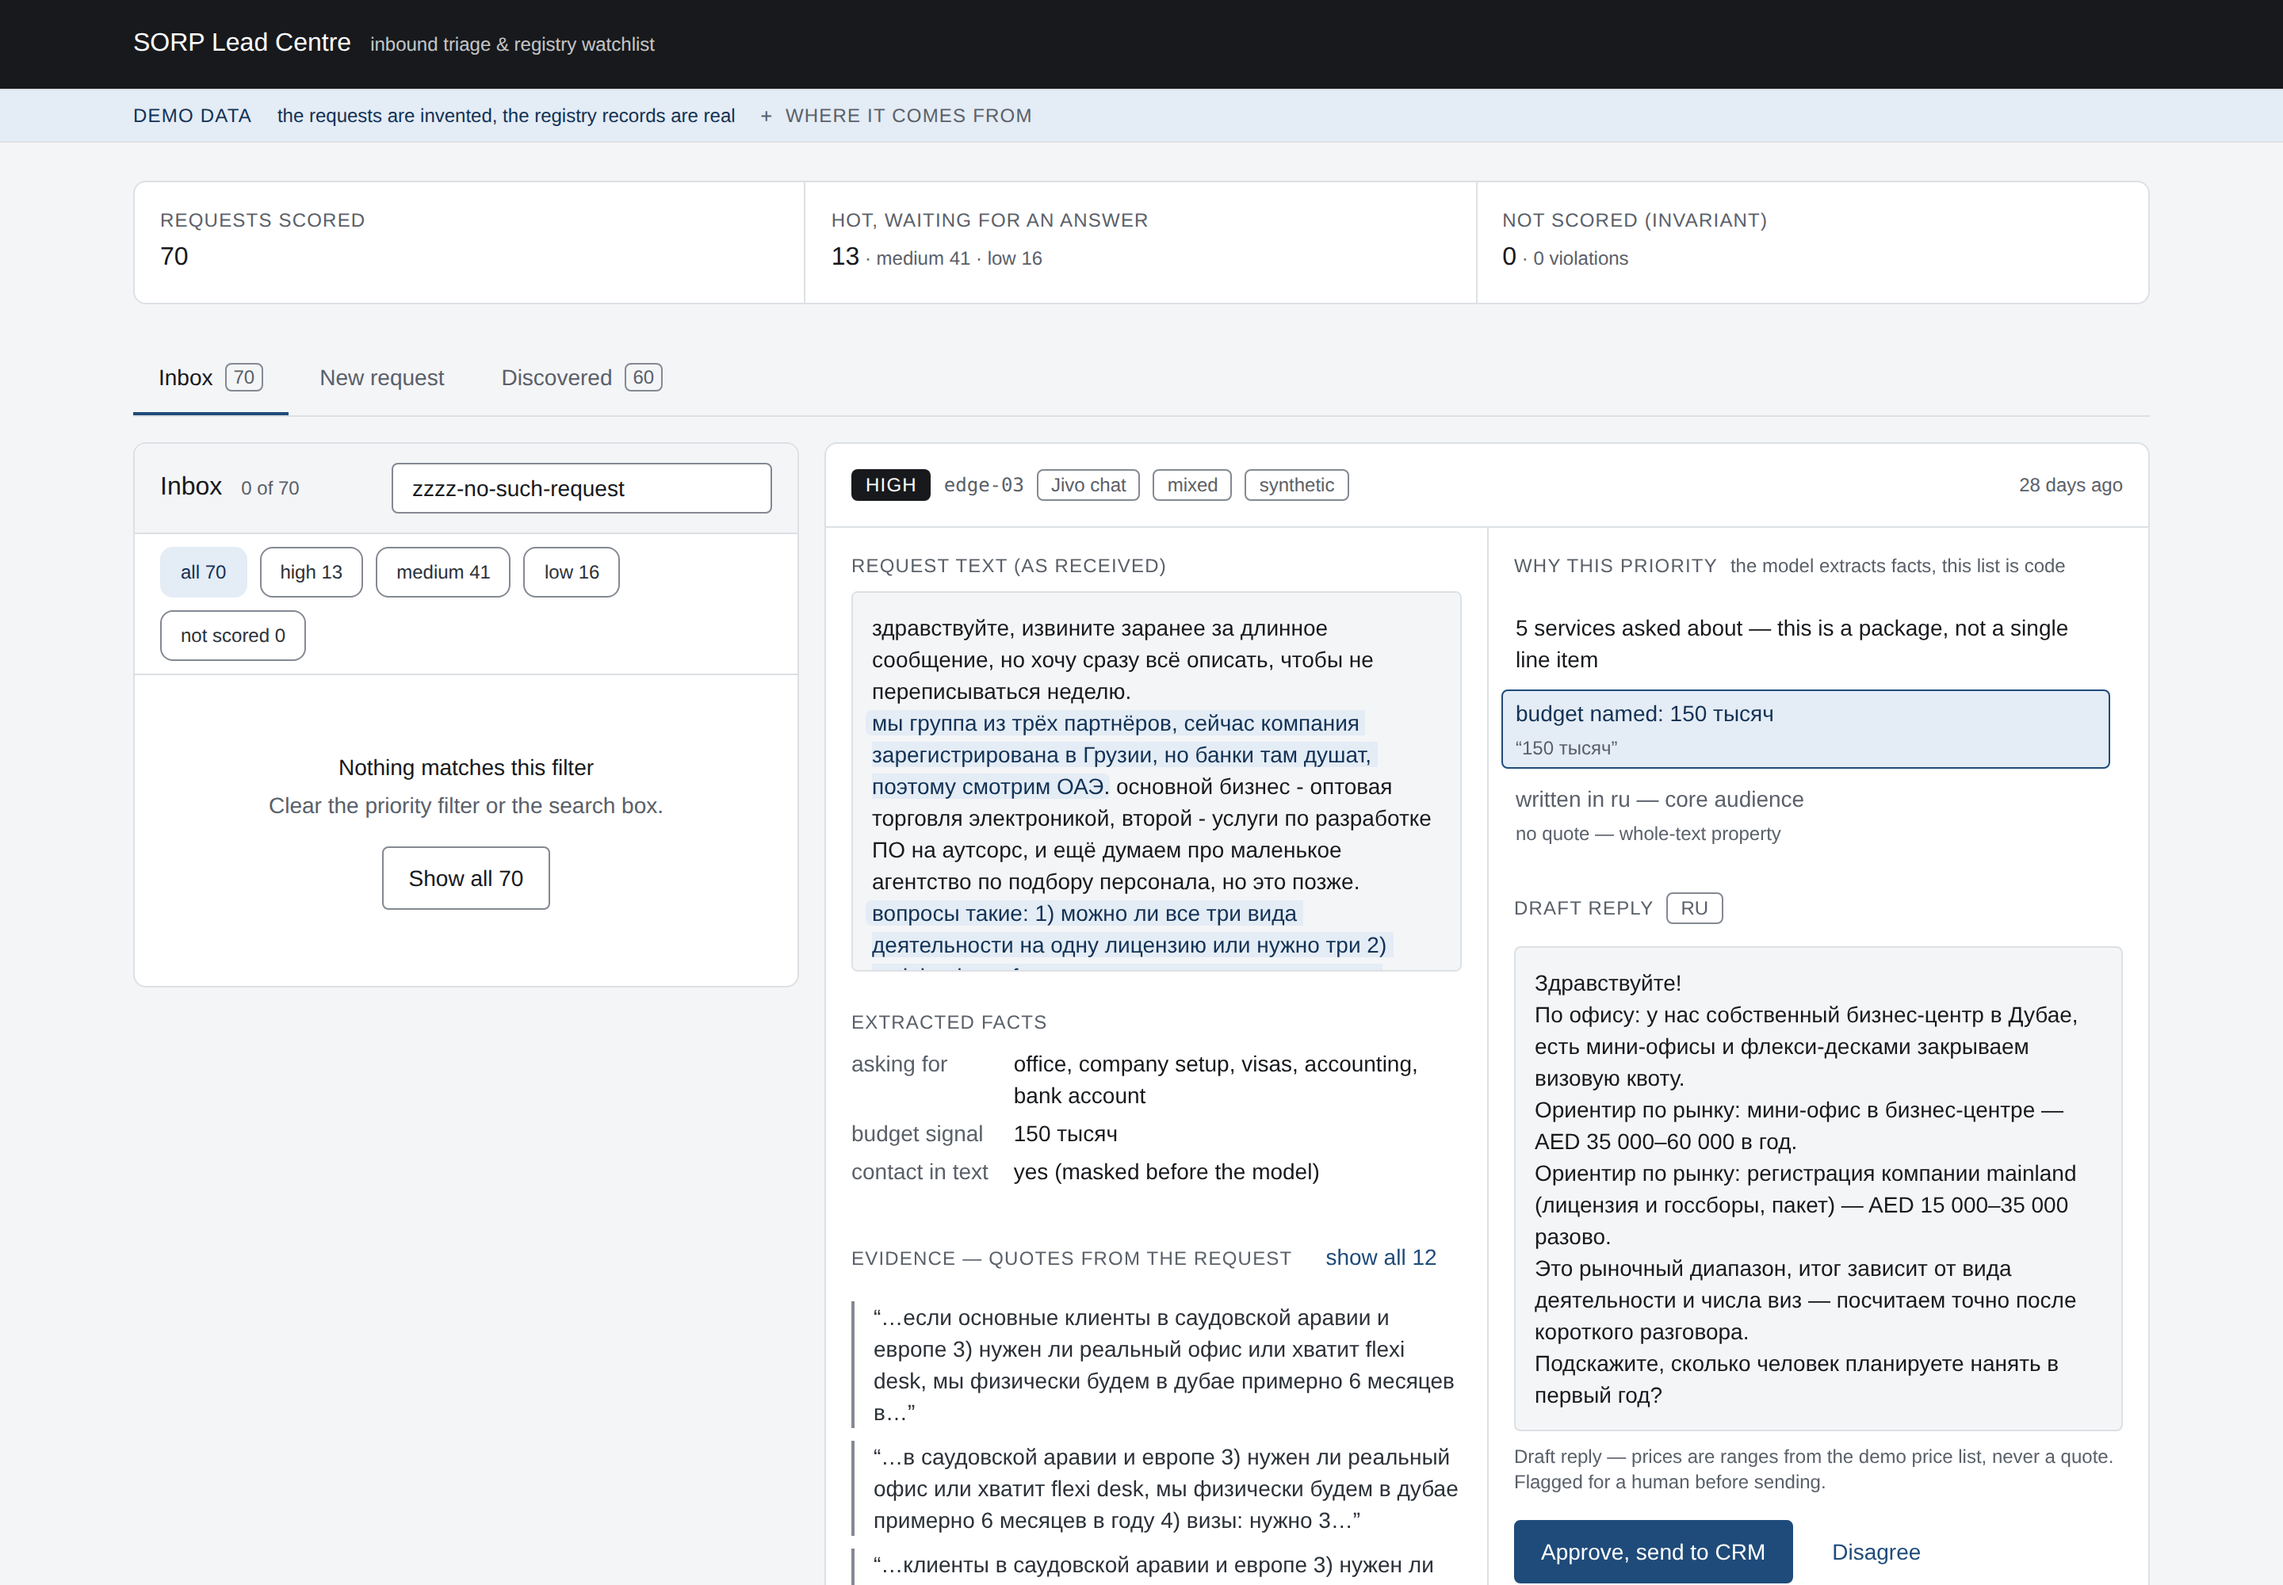
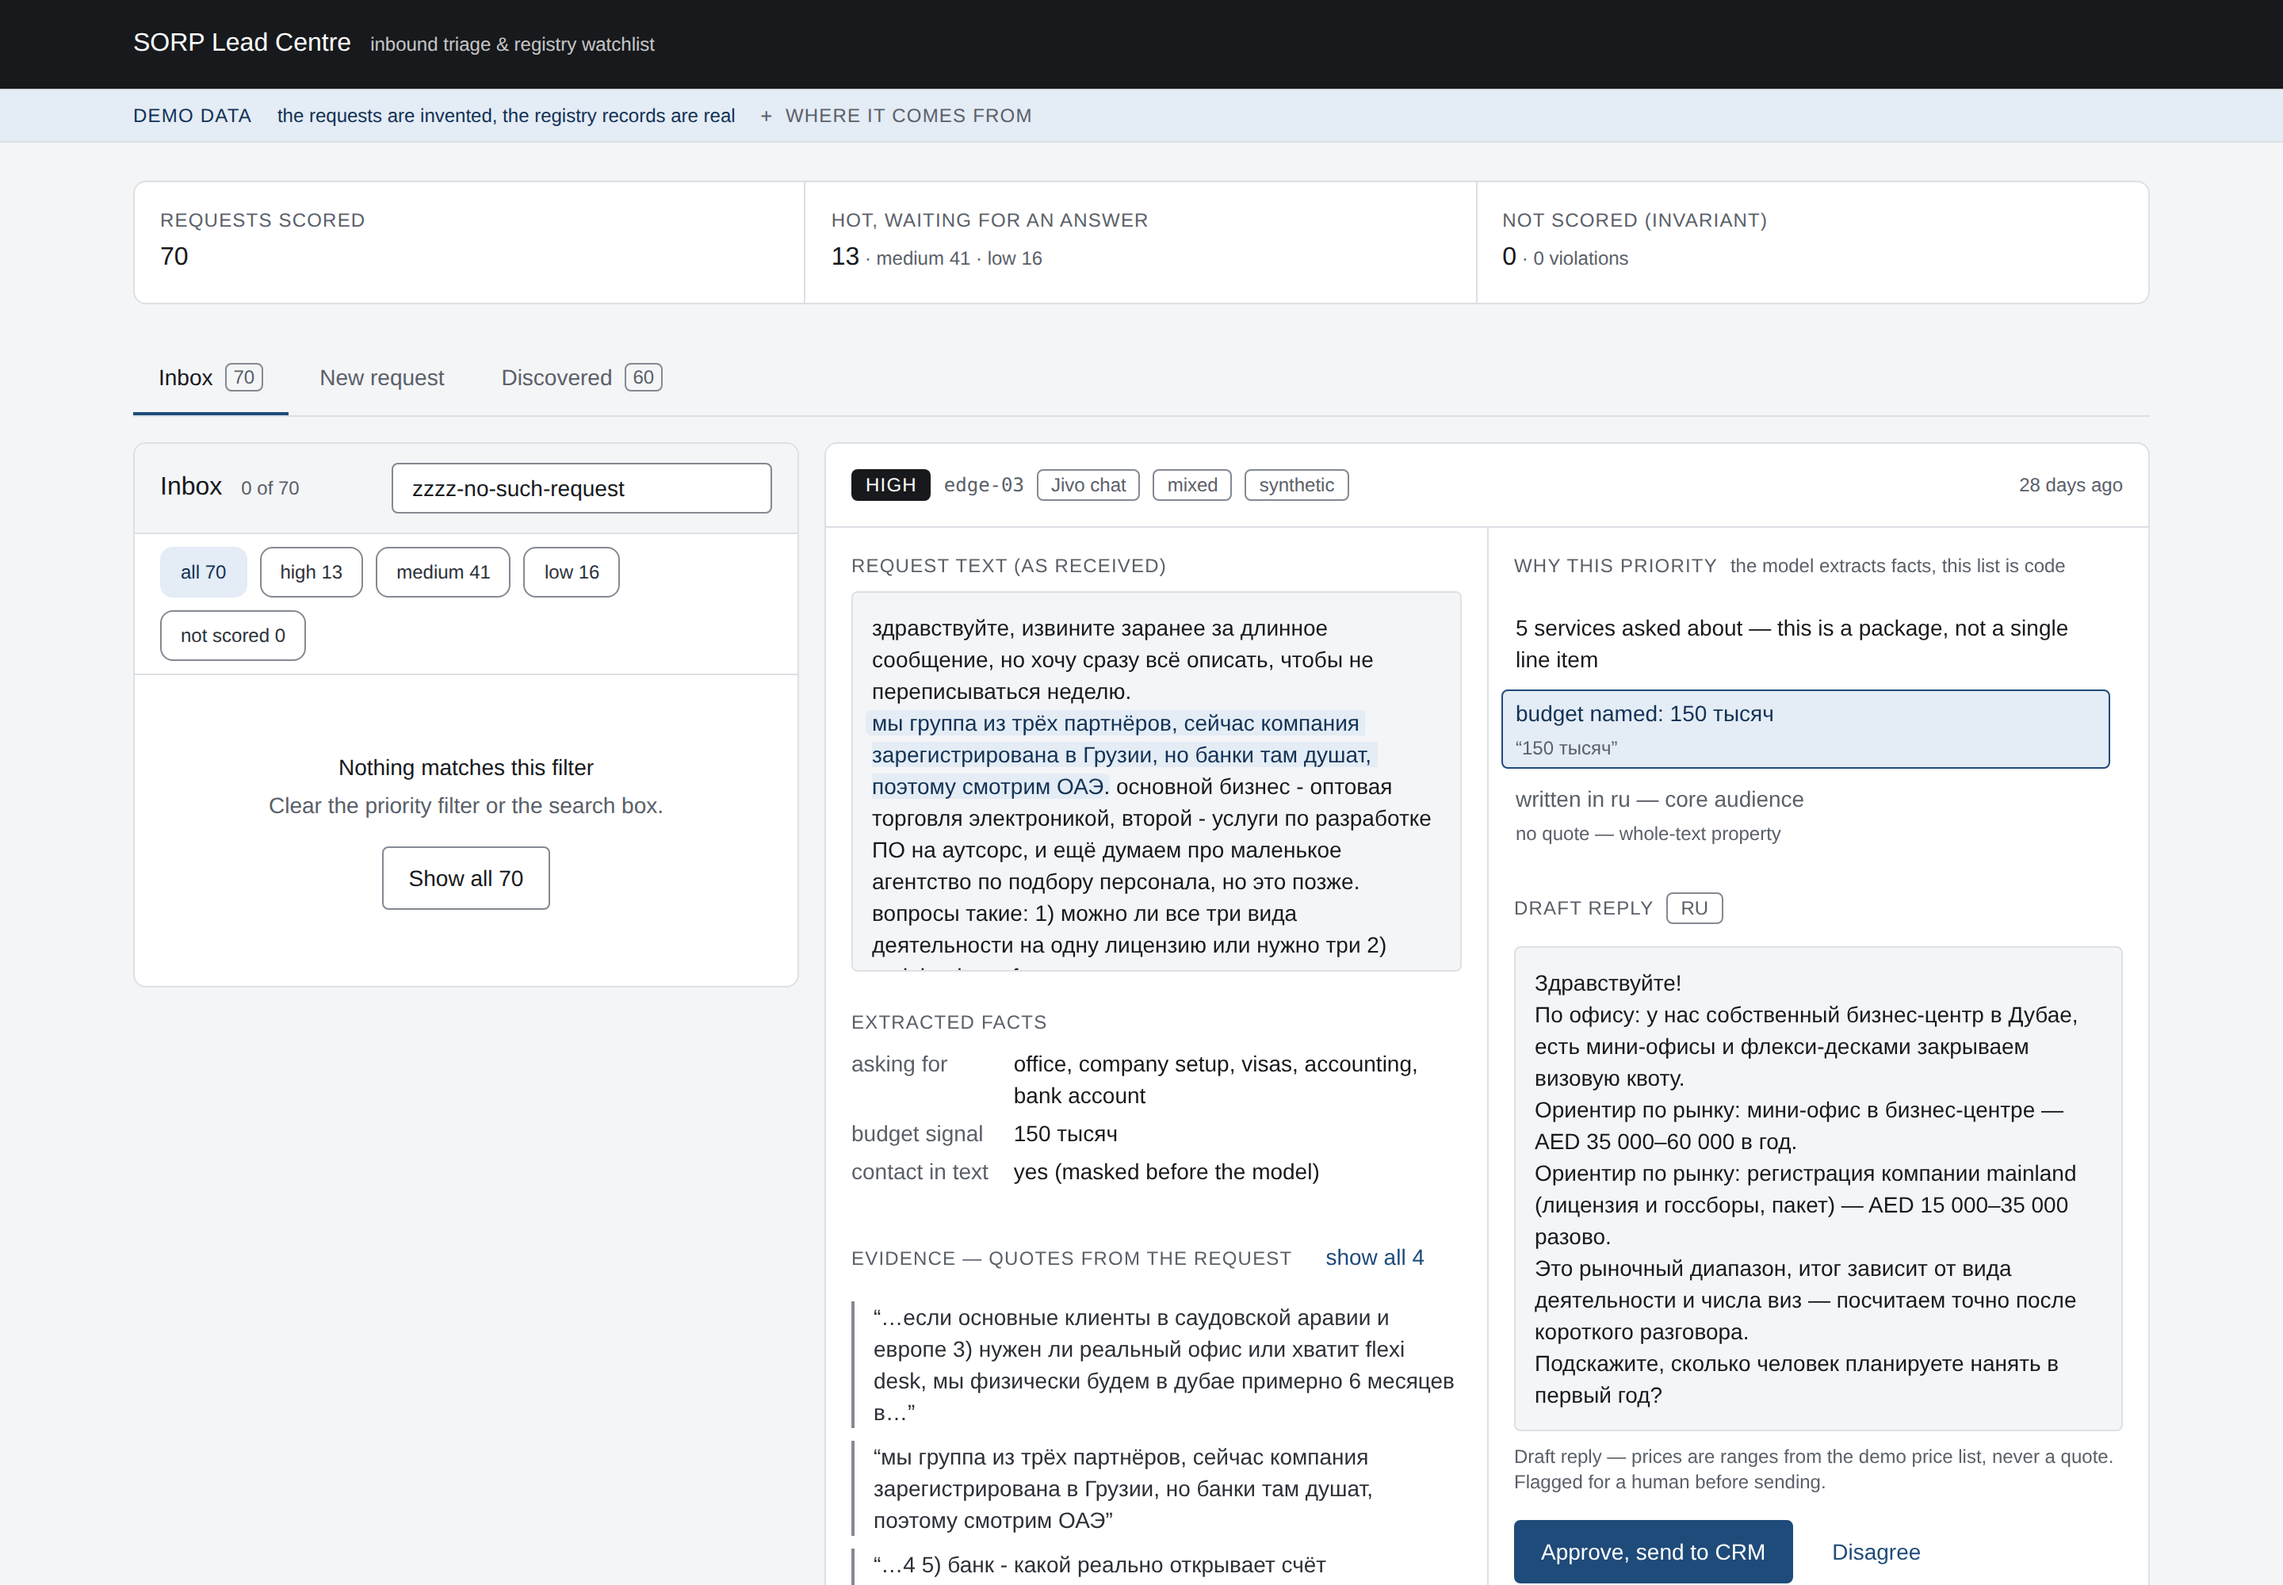
fix(facts): stop overlapping quotes passing as separate evidence
Claude-Session: https://claude.ai/code/session_014odsbH1wHmd67rLteETy5W

Changed region(s): [[0.375, 0.899, 0.625, 0.992]]

diff --git a/web/lib/mockEngine.ts b/web/lib/mockEngine.ts
@@ -131,7 +131,7 @@ const MAX_QUOTE_CHARS = 160;
  * помечается многоточием: подрезка только справа давала цитаты вида «eezone, если…» —
  * доказательство, похожее на мусор (ИЗМЕРЕНО в Python на edge-03, 12 из 14 цитат).
  */
-function sentenceAround(text: string, start: number, end: number): string {
+function sentenceSpan(text: string, start: number, end: number): [string, number, number] {
   let left = -1;
   for (const ch of SENTENCE_BOUNDARIES) left = Math.max(left, text.lastIndexOf(ch, start - 1));
   let right = text.length;
@@ -140,7 +140,7 @@ function sentenceAround(text: string, start: number, end: number): string {
     if (pos >= 0) right = Math.min(right, pos);
   }
   const fragment = text.slice(left + 1, right).trim();
-  if (fragment.length <= MAX_QUOTE_CHARS) return fragment;
+  if (fragment.length <= MAX_QUOTE_CHARS) return [fragment, left + 1, right];
 
   const head = Math.max(left + 1, start - Math.floor(MAX_QUOTE_CHARS / 2));
   const tail = Math.min(right, head + MAX_QUOTE_CHARS);
@@ -154,7 +154,7 @@ function sentenceAround(text: string, start: number, end: number): string {
     cut = space >= 0 ? cut.slice(0, space) : cut;
   }
   cut = cut.trim();
-  return `${head > left + 1 ? "…" : ""}${cut}${tail < right ? "…" : ""}`;
+  return [`${head > left + 1 ? "…" : ""}${cut}${tail < right ? "…" : ""}`, head, tail];
 }
 
 // --- причины: зеркало каталога leadcentre/engine/reasons.py ---
@@ -343,14 +343,21 @@ export interface ExtractionResult {
 export function extractFacts(text: string, receivedAt: Date = new Date()): ExtractionResult {
   const low = text.toLowerCase();
   const quotes: string[] = [];
+  const spans: [number, number][] = [];
 
   // The proof is the sentence the customer wrote, not the stem our matcher found:
   // a quote «регистрац» reads as a stemmer bug, not as evidence (facts_rules.hit).
   const hit = (marker: string): boolean => {
     const index = low.indexOf(marker);
     if (index < 0) return false;
-    const fragment = sentenceAround(text, index, index + marker.length);
-    if (fragment && !quotes.includes(fragment)) quotes.push(fragment);
+    // Порт отсева цитат-двойников: окно, пересекающееся с уже занятым, — тот же кусок
+    // текста под другим маркером, а не второе доказательство.
+    const [fragment, from, to] = sentenceSpan(text, index, index + marker.length);
+    const overlaps = spans.some(([takenFrom, takenTo]) => from < takenTo && takenFrom < to);
+    if (fragment && !overlaps && !quotes.includes(fragment)) {
+      quotes.push(fragment);
+      spans.push([from, to]);
+    }
     return true;
   };
 

diff --git a/leadcentre/engine/facts_rules.py b/leadcentre/engine/facts_rules.py
@@ -135,14 +135,20 @@ SENTENCE_BOUNDARIES = ".!?\n;"
 MAX_QUOTE_CHARS = 160
 
 
-def _sentence_around(text: str, start: int, end: int) -> str:
-    """Предложение, внутри которого лежит найденный кусок."""
+def _sentence_span(text: str, start: int, end: int) -> tuple[str, int, int]:
+    """Предложение вокруг найденного куска и границы, которые оно заняло в тексте.
+
+    Границы возвращаются вместе с текстом, потому что по ним отсеиваются цитаты-двойники:
+    в длинном перечислении без точек несколько маркеров попадают в одно и то же место, и
+    без сравнения границ карточка показывает три почти одинаковых окна как три разных
+    доказательства.
+    """
     left = max((text.rfind(ch, 0, start) for ch in SENTENCE_BOUNDARIES), default=-1)
     right_candidates = [pos for pos in (text.find(ch, end) for ch in SENTENCE_BOUNDARIES) if pos >= 0]
     right = min(right_candidates) if right_candidates else len(text)
     fragment = text[left + 1: right].strip()
     if len(fragment) <= MAX_QUOTE_CHARS:
-        return fragment
+        return fragment, left + 1, right
 
     # Длинное предложение подрезается вокруг совпадения по границам слов с обеих сторон:
     # цитата, начатая посреди слова, читается как мусор и обесценивает остальные
@@ -159,7 +165,12 @@ def _sentence_around(text: str, start: int, end: int) -> str:
     cut = cut.strip()
     prefix = "…" if head > left + 1 else ""
     suffix = "…" if tail < right else ""
-    return f"{prefix}{cut}{suffix}"
+    return f"{prefix}{cut}{suffix}", head, tail
+
+
+def _sentence_around(text: str, start: int, end: int) -> str:
+    """Предложение, внутри которого лежит найденный кусок."""
+    return _sentence_span(text, start, end)[0]
 
 
 # Слово о лицензии одинаково звучит при первичной регистрации и при продлении: «нужна
@@ -200,6 +211,9 @@ def rules_facts(message: InboundMessage) -> LeadFacts:
     low = message.text.lower()
     scrubbed = extract_mod.scrub_pii(message.text)
     quotes: list[str] = []
+    # Границы уже занятых цитат: окно, пересекающееся с занятым, — тот же кусок текста
+    # под другим маркером, а не второе доказательство.
+    spans: list[tuple[int, int]] = []
 
     def hit(marker: str) -> bool:
         """Ищет маркер; найденный добавляет в цитаты предложением целиком.
@@ -210,9 +224,11 @@ def rules_facts(message: InboundMessage) -> LeadFacts:
         index = low.find(marker)
         if index < 0:
             return False
-        fragment = _sentence_around(message.text, index, index + len(marker))
-        if fragment and fragment not in quotes:
+        fragment, start, end = _sentence_span(message.text, index, index + len(marker))
+        overlaps = any(start < taken_end and taken_start < end for taken_start, taken_end in spans)
+        if fragment and not overlaps and fragment not in quotes:
             quotes.append(fragment)
+            spans.append((start, end))
         return True
 
     types: list[RequestType] = []

diff --git a/tests/test_facts_rules.py b/tests/test_facts_rules.py
@@ -408,3 +408,52 @@ def test_headcount_quote_is_absent_when_the_count_is_unknown():
     facts = rules_facts(_message("визы: нужно 3 партнёрские + 2 сотрудника, потом ещё 4"))
     assert "2 сотрудника" not in facts.quotes
     assert any("визы" in q for q in facts.quotes), "цитата под тип запроса обязана остаться"
+
+
+# --- цитаты не повторяют друг друга --------------------------------------------------
+
+
+LONG_ENUMERATION = (
+    "вопросы такие: 1) нужен ли офис или хватит flexi desk 2) визы на сотрудников "
+    "3) бухгалтерия и аудит 4) банк для нерезидента — всё это в одном предложении "
+    "без единой точки, потому что клиент писал в спешке и не расставлял знаки"
+)
+
+
+def test_markers_inside_one_sentence_give_one_quote():
+    """Несколько маркеров в одном перечислении — одно доказательство, а не четыре.
+
+    Живой дефект: на обращении edge-03 карточка показывала 12 цитат, из которых первые
+    три были окнами вокруг одного и того же места и отличались сдвигом на пару слов.
+    Читатель видит три почти одинаковых абзаца и решает, что система пересказывает саму
+    себя. Перекрывающееся окно — тот же кусок текста под другим маркером.
+    """
+    quotes = rules_facts(_message(LONG_ENUMERATION)).quotes
+    assert len(quotes) == 1, quotes
+
+
+def test_markers_in_different_sentences_give_different_quotes():
+    """Негативный контроль правила: непересекающиеся места обязаны дать разные цитаты.
+
+    Без этой половины проверка зеленела бы и на правиле «оставлять ровно одну цитату
+    всегда», то есть измеряла бы не то.
+    """
+    text = "нужен офис в Дубае. Отдельным вопросом: визы на сотрудников."
+    quotes = rules_facts(_message(text)).quotes
+    assert len(quotes) == 2, quotes
+
+
+def test_seed_edge_03_quotes_do_not_repeat_each_other():
+    """Тот самый вход из репозитория: цитат немного и ни одна не повторяет соседнюю."""
+    quotes = rules_facts(_seed_message("edge-03")).quotes
+    assert len(quotes) <= 5, quotes
+    stripped = [q.strip("…").strip() for q in quotes]
+    for i, first in enumerate(stripped):
+        for second in stripped[i + 1:]:
+            assert first not in second and second not in first, (first, second)
+
+
+def test_hot_requests_keep_at_least_one_quote():
+    """Схлопывание цитат не имеет права оставить горячее обращение без доказательства."""
+    for external_id in ("urg-01", "urg-13", "edge-03"):
+        assert rules_facts(_seed_message(external_id)).quotes, external_id
